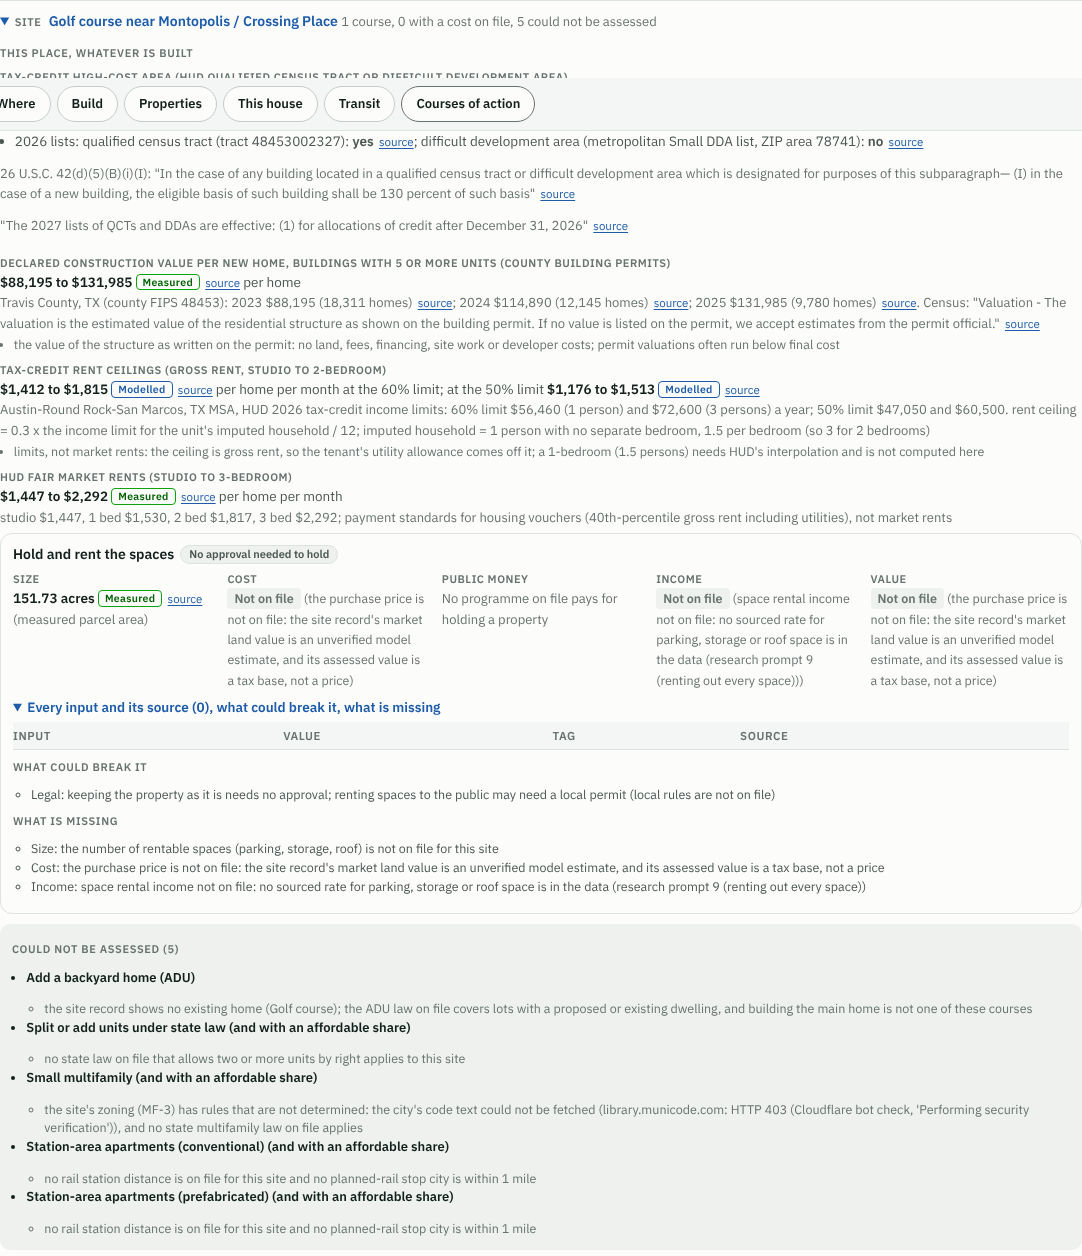
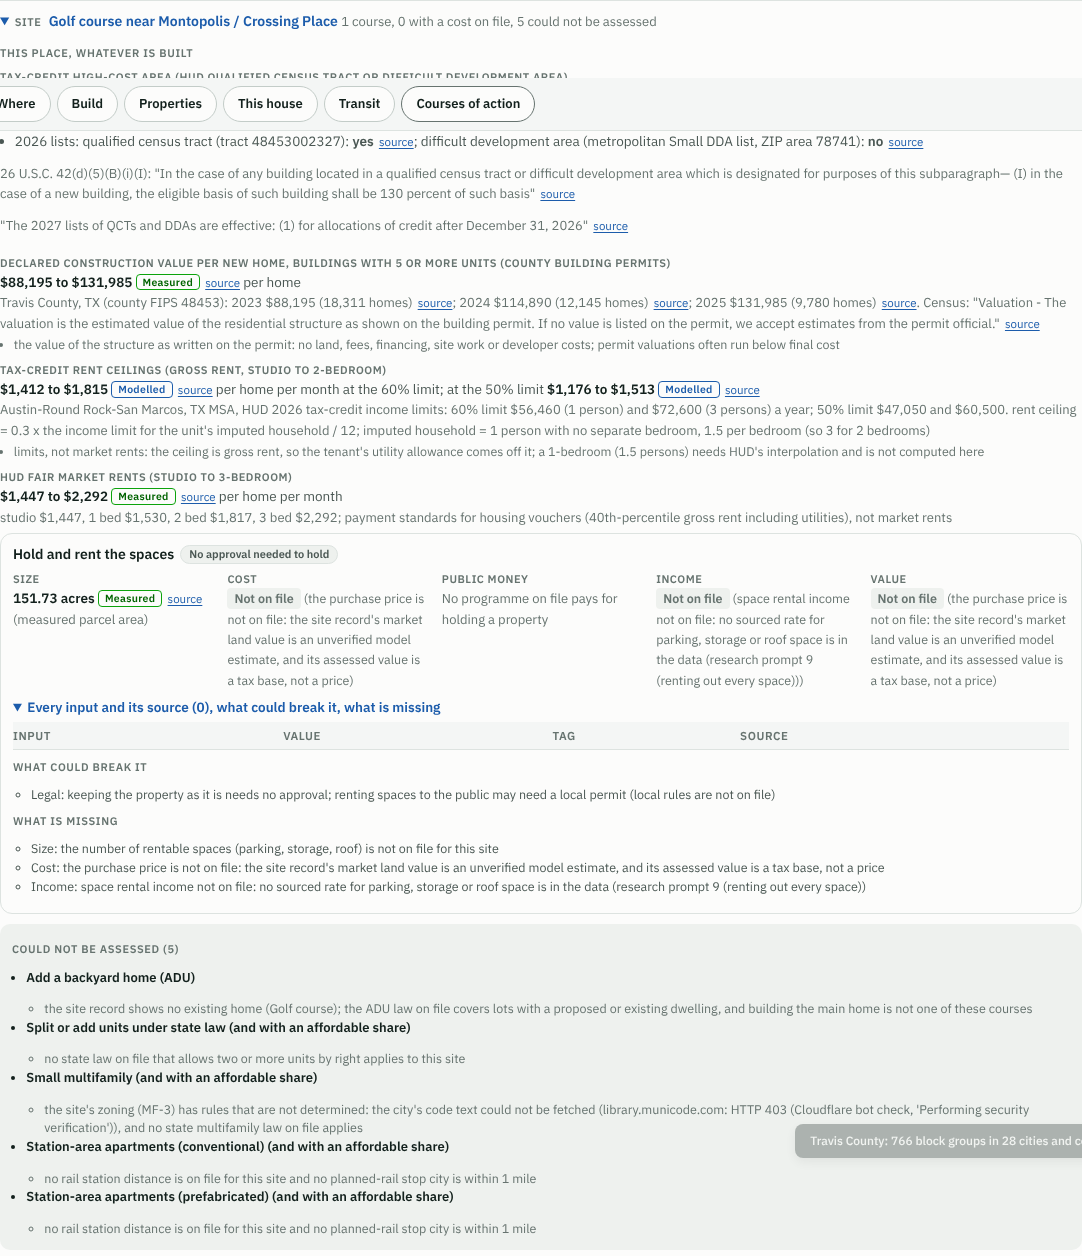
Invest: load site places and zoning together, and keep a section jump when a late render lands
Claude-Session: https://claude.ai/code/session_01Trq9XR7EboPBXRy5geHqD9

Changed region(s): [[0.732, 0.8694, 1.0, 0.9315]]

diff --git a/app/invest.js b/app/invest.js
@@ -790,7 +790,7 @@ function render() {
   loadData().then(d => {
     if (iv.view !== "invest") return;
     const r2 = ready(); if (r2.state !== "ok") { render(); return; }
-    if (window.StationSites && !window.StationSites.cached(r2.fips)) window.StationSites.load(r2.fips).then(() => window.StationSites.loadPlaces ? window.StationSites.loadPlaces(r2.fips) : null).then(() => window.StationSites.loadZoning ? window.StationSites.loadZoning(r2.fips) : null).then(() => { if (iv.view === "invest") { iv.key = null; pc.key = null; render(); } });
+    if (window.StationSites && !window.StationSites.cached(r2.fips)) window.StationSites.load(r2.fips).then(() => Promise.all([window.StationSites.loadPlaces ? window.StationSites.loadPlaces(r2.fips) : null, window.StationSites.loadZoning ? window.StationSites.loadZoning(r2.fips) : null])).then(() => { if (iv.view === "invest") { iv.key = null; pc.key = null; render(); } });
     const p = parcelFacts();
     const key = [r2.fips, iv.hood, p && p.facts.parcel_id, p && p.facts.base_zoning_code, p && p.facts.exclusions && JSON.stringify(p.facts.exclusions), d.laws ? d.laws.length : -1, d.verification ? 1 : 0, typeof SITES !== "undefined" && SITES ? 1 : 0].join("|");
     if (key !== iv.key || !iv.model) { iv.model = build(r2.fips, r2.B, d); iv.key = key; }
@@ -800,6 +800,8 @@ function render() {
     el.innerHTML = `<div class="iv-wrap">${headerHTML(m, open)}<div class="iv-cards">${whereCard(m, open)}${buildCard(m, open)}${sitesCard(m, open)}${houseCard(m, open)}${transitCard(m, open)}</div>${coursesSection(m, open)}
       <p class="iv-foot">Everything here comes from public data and the tests described above. It is a starting point for due diligence, not advice. A figure marked Not on file is missing from our data, and we do not fill gaps with guesses.</p></div>`;
     if (!fresh) window.scrollTo(0, y);
+    // a re-render that lands while a section jump is scrolling (late site files) would stop the jump half way
+    if (iv.jumpTo) { const c = document.getElementById(iv.jumpTo); if (c && c.scrollIntoView) c.scrollIntoView({ block: "start" }); }
     window.__cpDecisionBrief = m.brief;
     if (iv.want) {   // opened from a neighborhood panel: land on Build for that area, or say why it is another one
       const w = iv.want; iv.want = null;
@@ -849,7 +851,7 @@ function onClick(e) {
   const d = t.dataset;
   if (d.view) { if (d.view === "invest") setInvest(true); else if (iv.view === "invest") setInvest(false); return; }
   if (!host() || !host().contains(t)) return;
-  if (d.ivJump) { const c = document.getElementById(d.ivJump); if (c && c.scrollIntoView) c.scrollIntoView({ block: "start", behavior: "smooth" }); }
+  if (d.ivJump) { const c = document.getElementById(d.ivJump); if (c && c.scrollIntoView) c.scrollIntoView({ block: "start", behavior: "smooth" }); iv.jumpTo = d.ivJump; clearTimeout(iv.jumpT); iv.jumpT = setTimeout(() => { iv.jumpTo = null; }, 2500); }
   else if (d.ivBudget != null) { iv.budget = +d.ivBudget; render(); }
   else if (d.ivHood) { iv.hood = d.ivHood; iv.moreIdeas = false; render(); const c = document.getElementById("iv-build"); if (c && c.scrollIntoView) c.scrollIntoView({ block: "start" }); }
   else if (d.ivMap) leaveToMap(d.ivMap);

diff --git a/docs/audit/site-zoning-2026-11-23.md b/docs/audit/site-zoning-2026-11-23.md
@@ -108,8 +108,10 @@ site asks for bulk download instead of page reads).
   `attachZoning` sets `site.zoning`, `baseZoning`, `zoningCategory`, `cityName`, `zoningLimits` (`limitsOf`: only what the
   row states, each with section, quote, URL; a zone with no row gets `notDetermined` with the reason and first URL tried).
   The site's fact list gains a "Zoning" row (zone, where read, who zones it, category or why not).
-- `app/invest.js` (3 small edits): loads the zoning after the places file; passes `zoning_limits` in the parcel facts and
-  the parcel-to-outline ratio. `app/app.js` untouched.
+- `app/invest.js` (small edits): loads the zoning file together with the places file; passes `zoning_limits` in the
+  parcel facts and the parcel-to-outline ratio; a section jump is re-applied if a late re-render lands while it scrolls
+  (the first full browser run showed a bare URL in a fact row widening the phone layout, and the second a jump stopped
+  half way by the later render 1 time in 4; both fixed, the jump test passed 10 of 10 after). `app/app.js` untouched.
 - `src/engines/projectCardEngine.js`: the statute engine still runs first and decides wherever a state law applies. With no
   applicable law, a multifamily or mixed-use code row whose text permits housing makes the multifamily courses' legal
   basis "zoning on file" with the code quote; homes = the code's density x the mapped lot's area (modelled), floor area =
